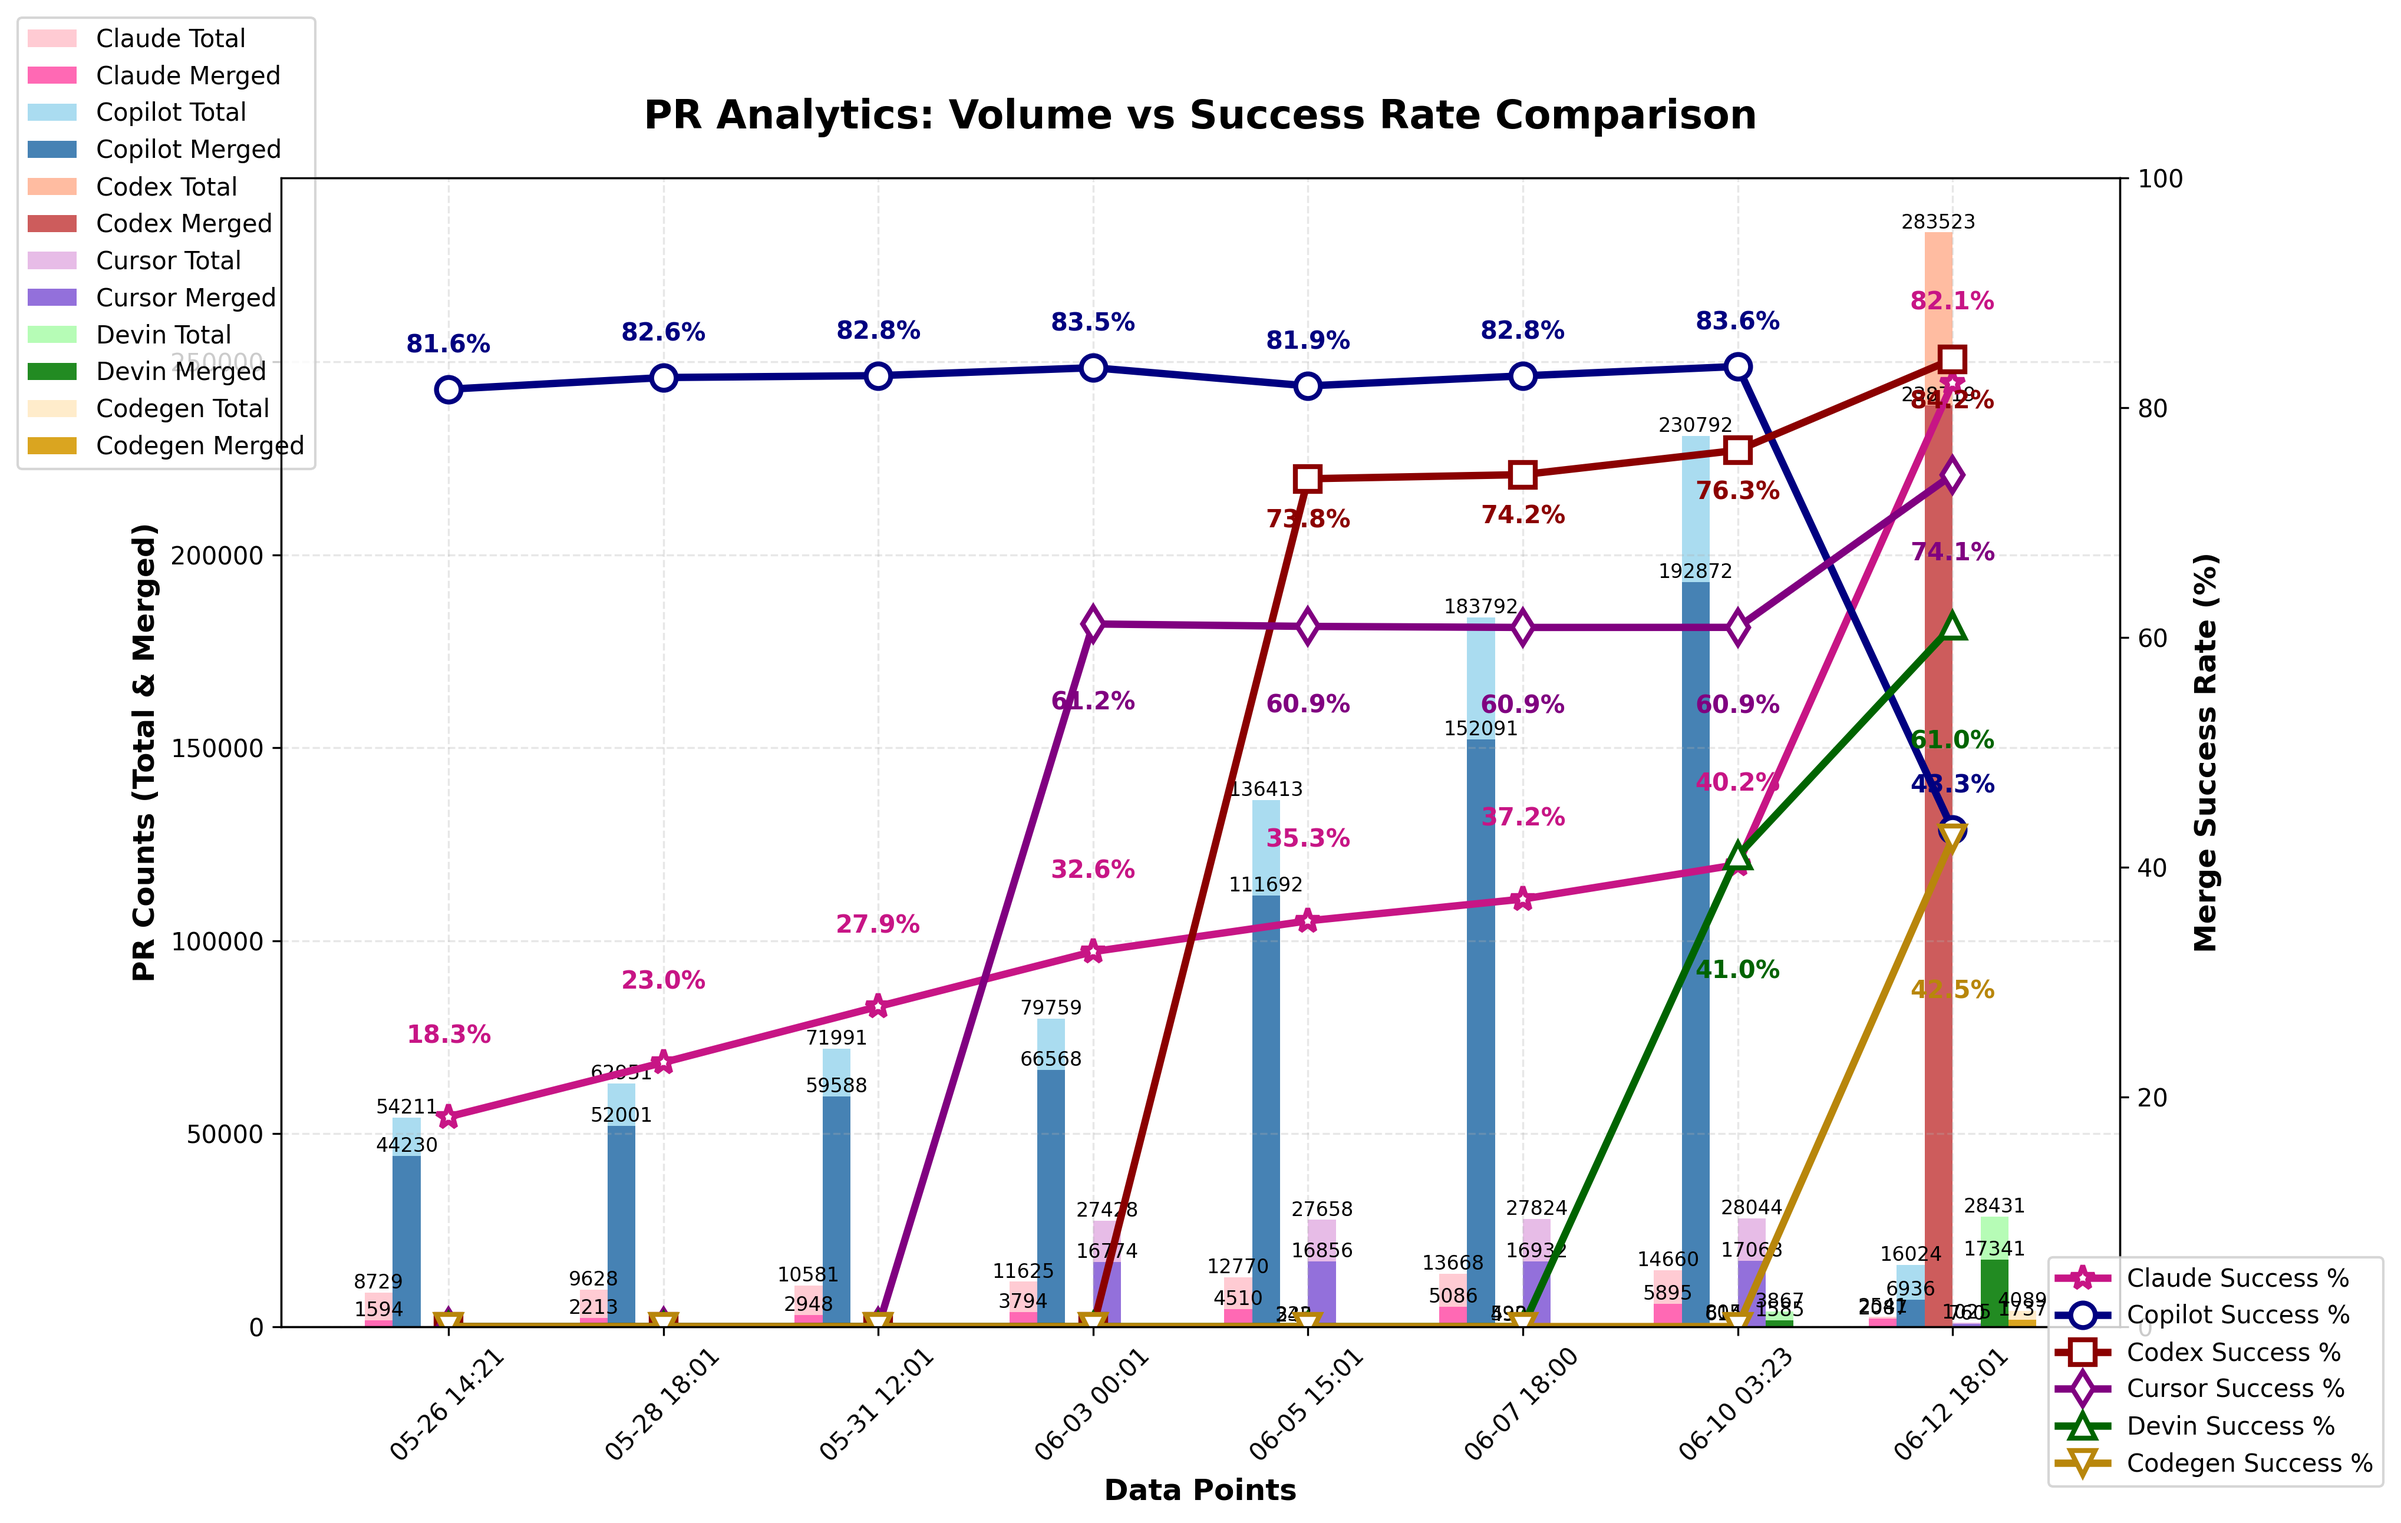
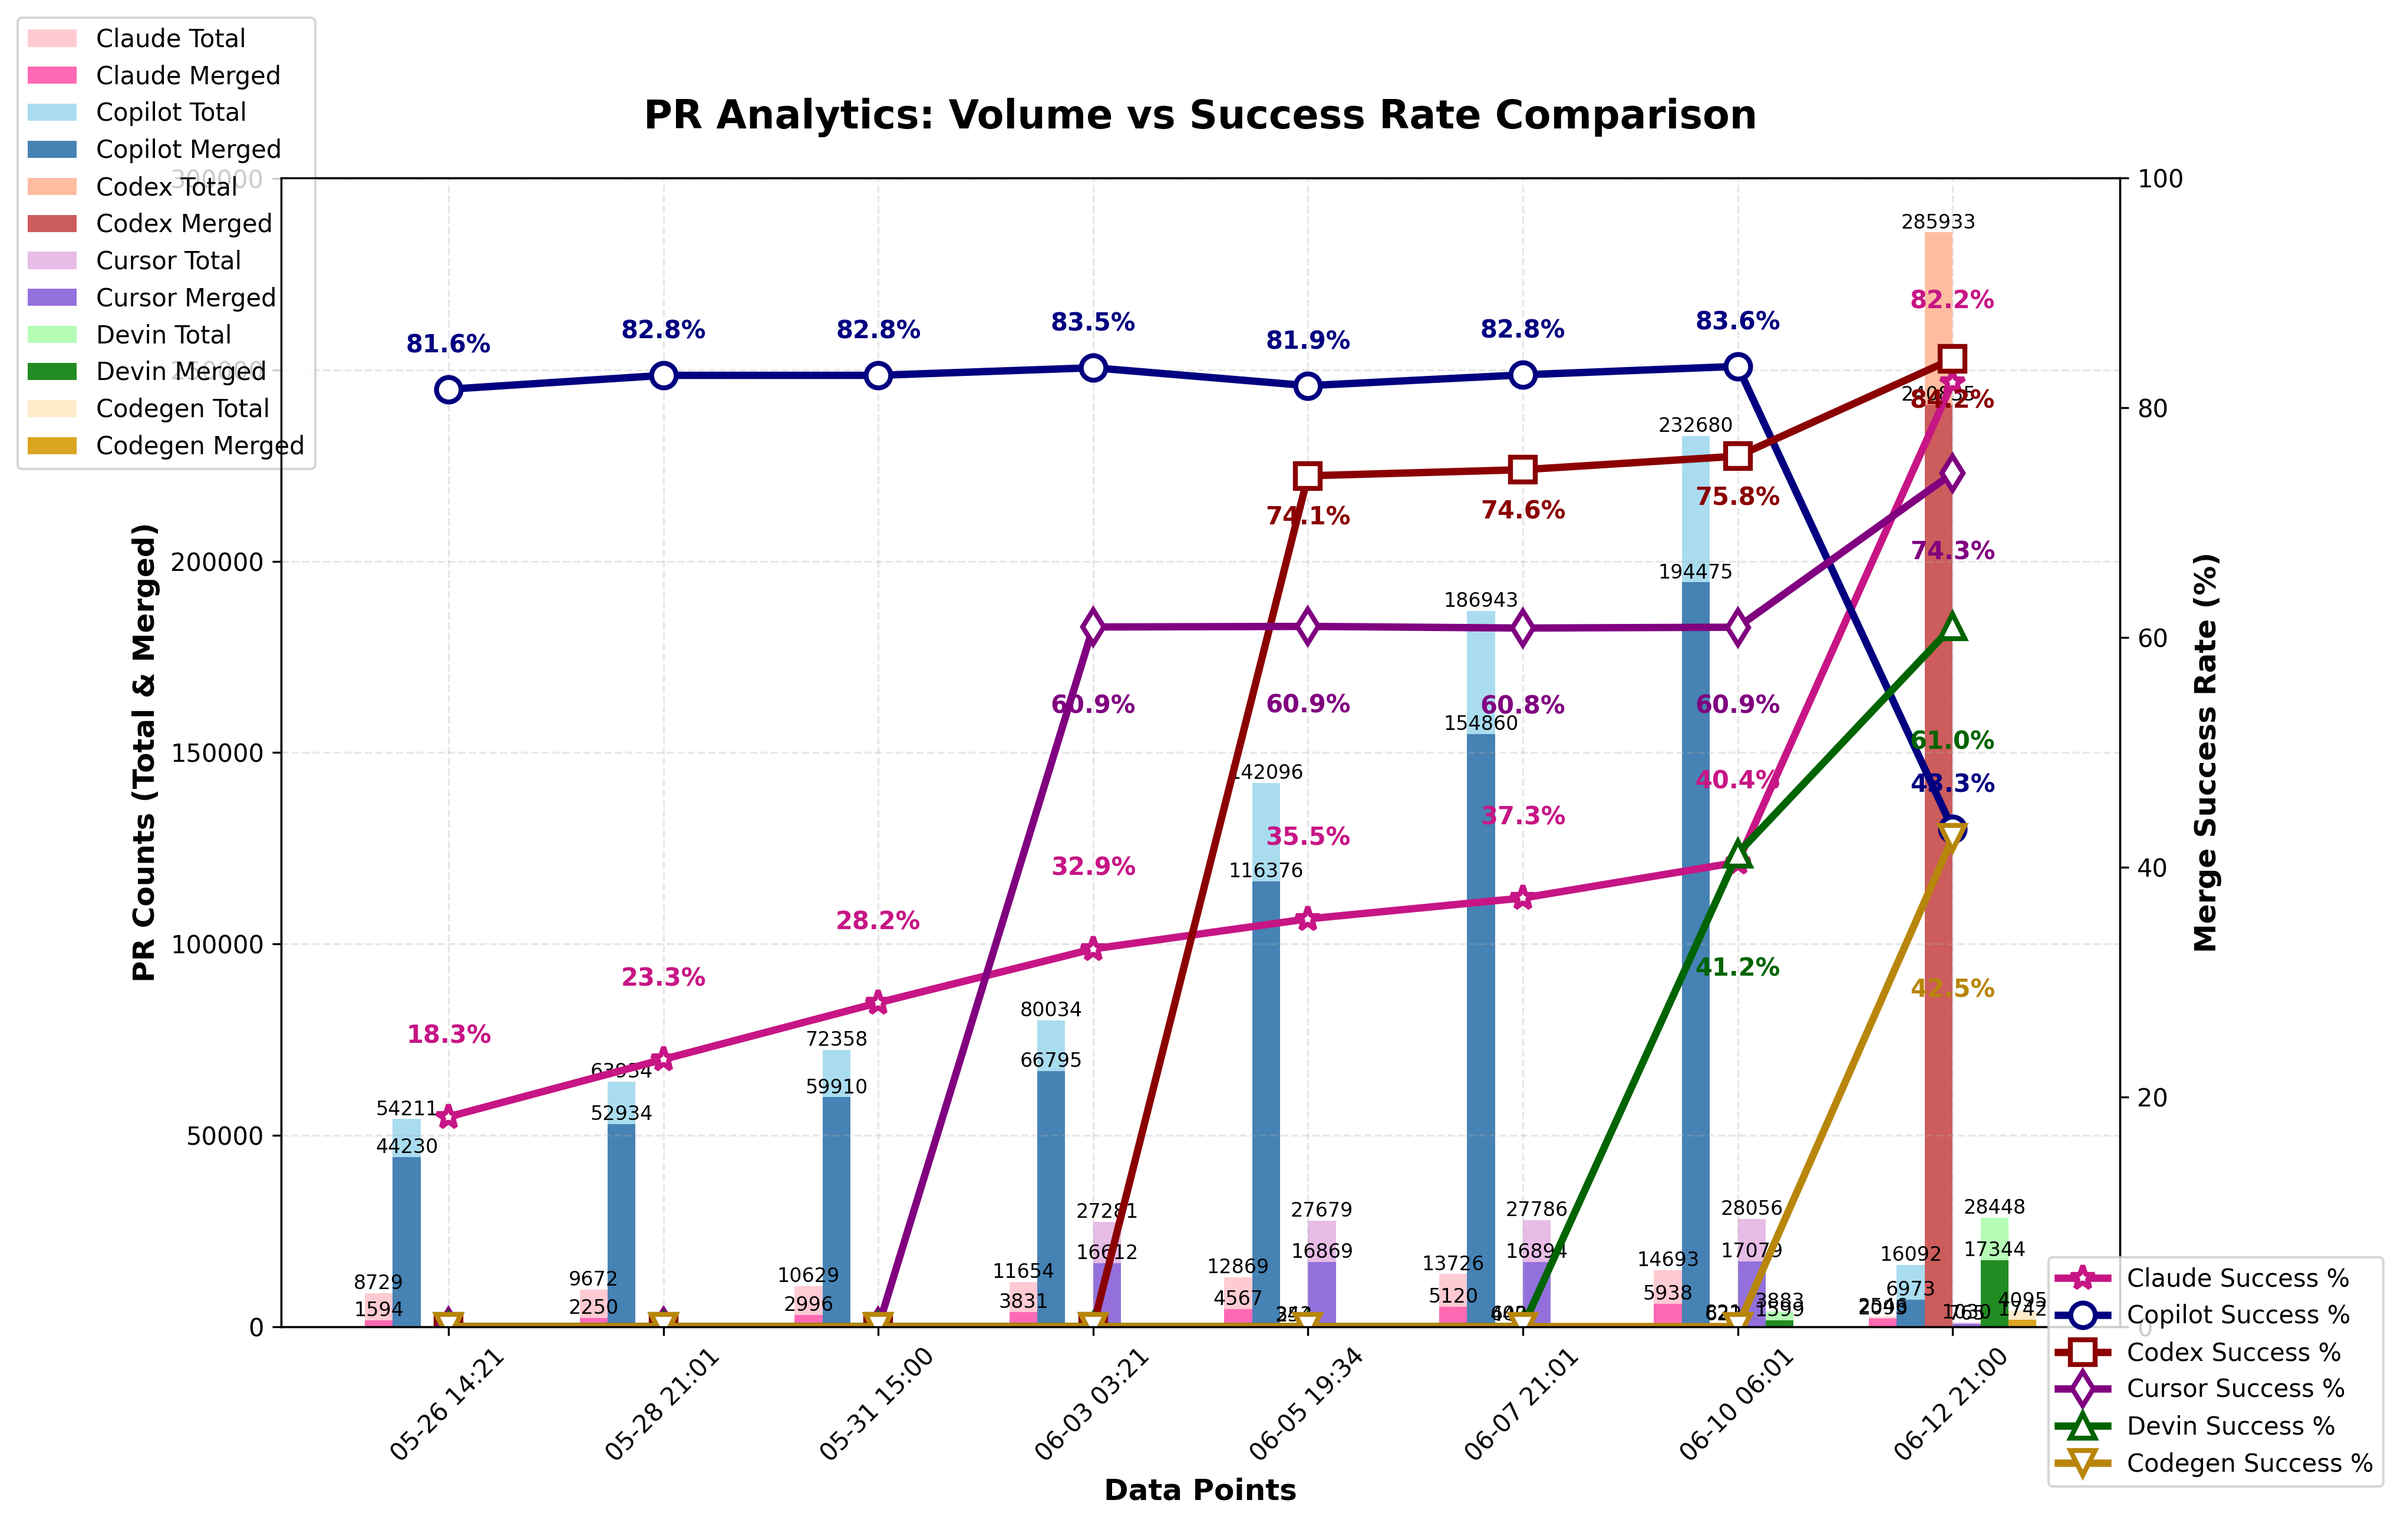
chore: update PR‑approval chart

diff --git a/docs/index.html b/docs/index.html
@@ -367,7 +367,7 @@
 
       <footer>
         <p>
-          Last updated: <span id="last-updated">June 12, 2025 18:01 UTC</span>
+          Last updated: <span id="last-updated">June 12, 2025 21:01 UTC</span>
         </p>
         <p>
           <a href="https://github.com/aavetis/ai-pr-watcher">View on GitHub</a>

diff --git a/README.md b/README.md
@@ -27,9 +27,9 @@ Explore the GitHub search queries used:
 
 | Project | Total PRs | Merged PRs | Merge Rate |
 | ------- | --------- | ---------- | ---------- |
-| Claude  | 2,541 | 2,087 | 82.13% |
-| Copilot | 16,024 | 6,936 | 43.29% |
-| Codex   | 283,523 | 238,719 | 84.20% |
-| Cursor  | 1,025 | 760 | 74.15% |
-| Devin   | 28,431 | 17,341 | 60.99% |
-| Codegen | 4,089.0 | 1,737.0 | 42.48% |
+| Claude  | 2,546 | 2,093 | 82.21% |
+| Copilot | 16,092 | 6,973 | 43.33% |
+| Codex   | 285,933 | 240,835 | 84.23% |
+| Cursor  | 1,030 | 765 | 74.27% |
+| Devin   | 28,448 | 17,344 | 60.97% |
+| Codegen | 4,095.0 | 1,742.0 | 42.54% |
